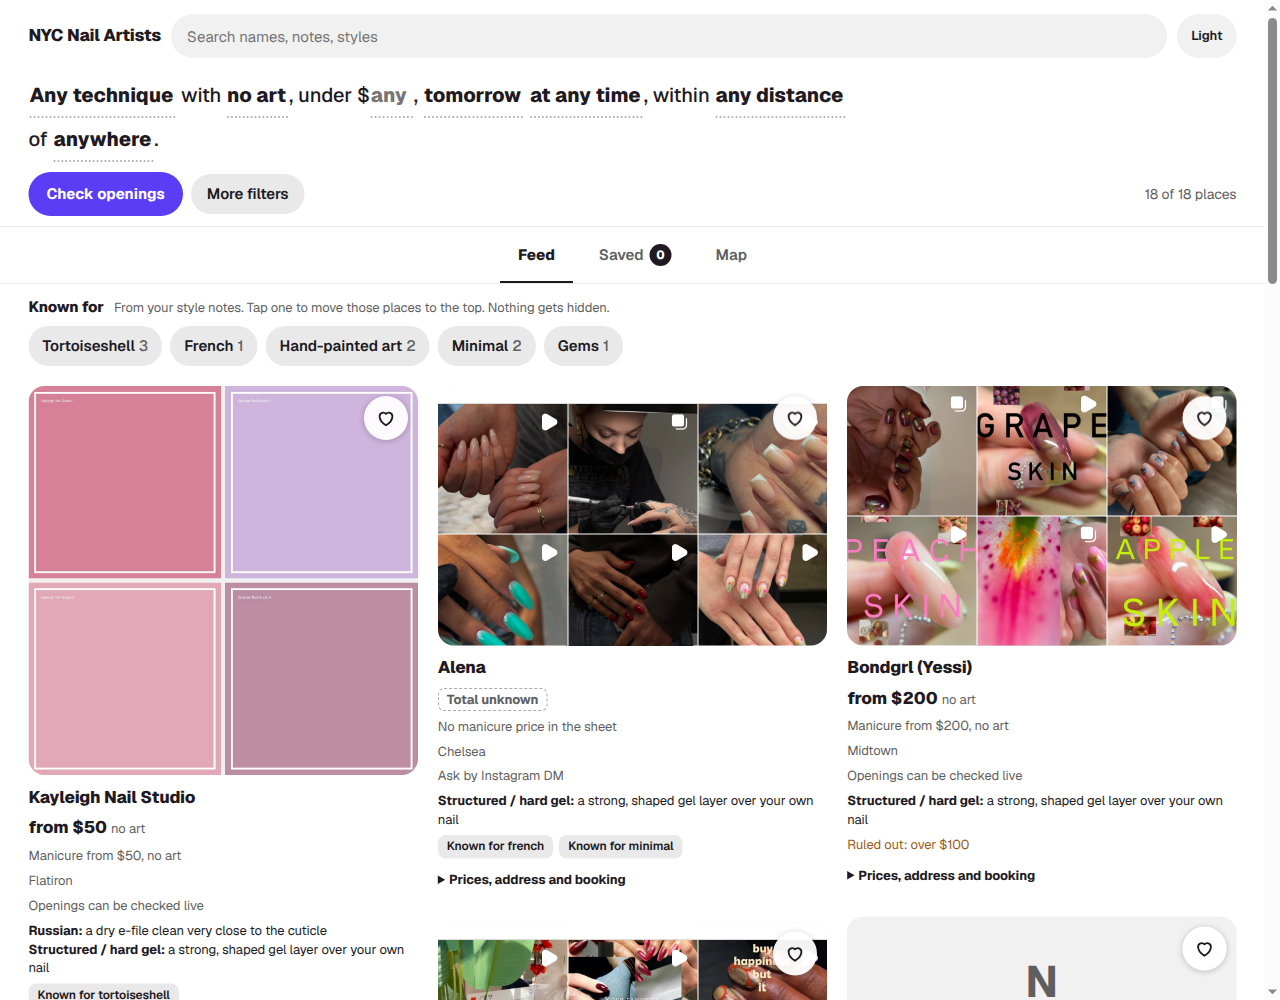
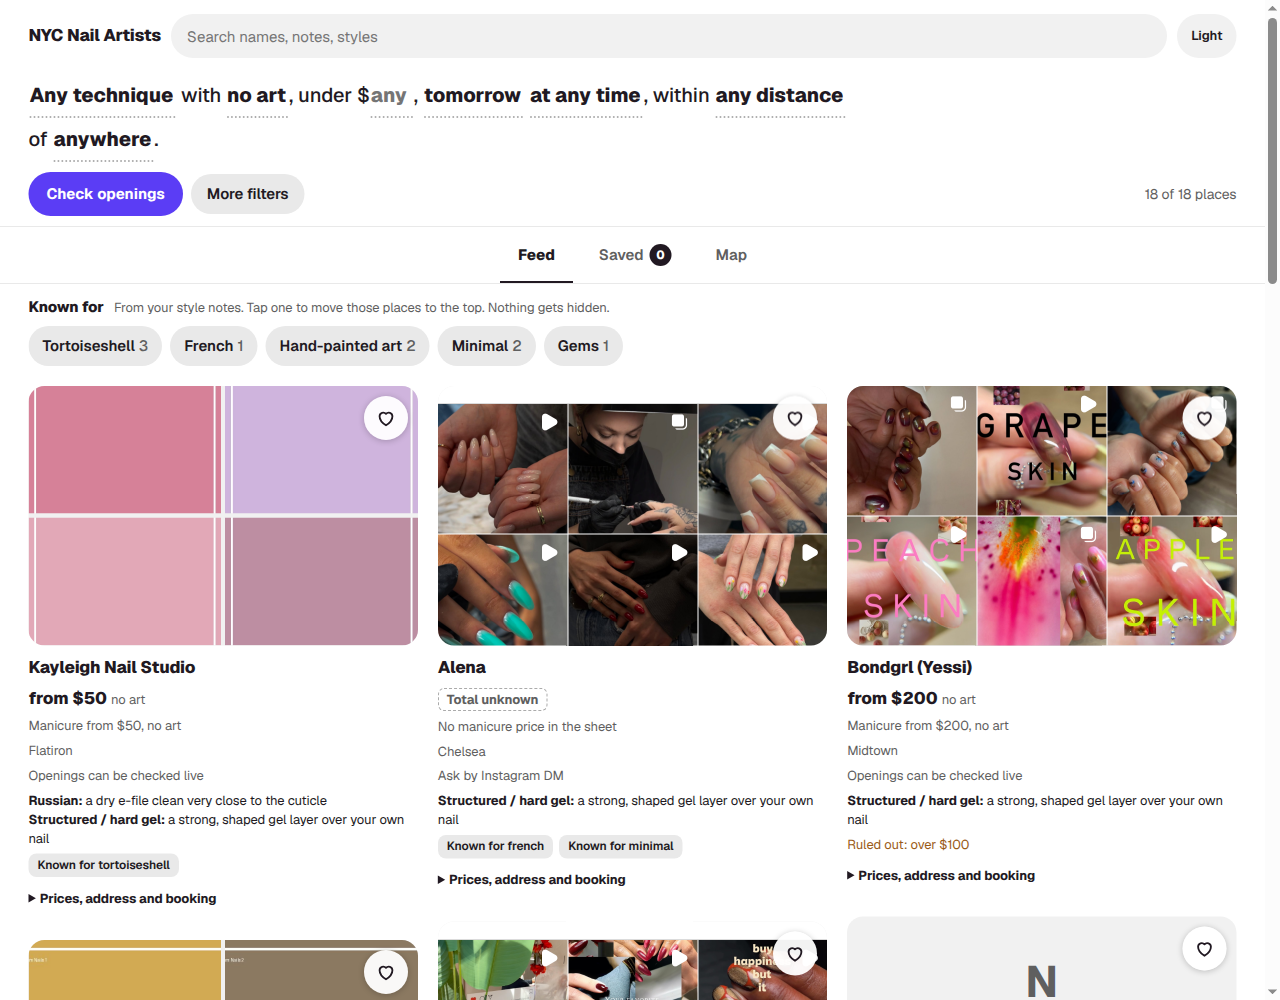
fix: align saved photo grids with embeds

Changed region(s): [[0.0, 0.62, 0.3438, 1.0], [0.0, 0.496, 0.3438, 0.589], [0.0312, 0.372, 0.0625, 0.403]]

diff --git a/index.html b/index.html
@@ -57,12 +57,13 @@ details.more[open]{flex-basis:100%}
 .card.flash .media{outline:3px solid var(--acc);outline-offset:3px}
 .media{position:relative;border-radius:16px;overflow:hidden;background:var(--surface);container-type:inline-size}
 .crop{height:66.7cqw;overflow:hidden}.crop iframe{display:block;width:100%;height:calc(190px + 66.7cqw);margin-top:-147px;border:0}
-.photos.saved{display:grid;gap:4px;overflow:hidden}
-.photos.saved[data-count="1"]{grid-template-columns:1fr;aspect-ratio:1}
-.photos.saved[data-count="2"]{grid-template-columns:repeat(2,minmax(0,1fr));aspect-ratio:2}
-.photos.saved[data-count="3"]{grid-template-columns:repeat(3,minmax(0,1fr));aspect-ratio:3}
-.photos.saved[data-count="4"]{grid-template-columns:repeat(2,minmax(0,1fr));aspect-ratio:1}
-.photos.saved a{display:block;min-width:0;overflow:hidden;aspect-ratio:1}
+.photos.saved{display:grid;gap:4px;overflow:hidden;aspect-ratio:3/2}
+.photos.saved[data-count="1"]{grid-template-columns:1fr}
+.photos.saved[data-count="2"]{grid-template-columns:repeat(2,minmax(0,1fr))}
+.photos.saved[data-count="3"]{grid-template-columns:2fr 1fr;grid-template-rows:repeat(2,minmax(0,1fr))}
+.photos.saved[data-count="3"] a:first-child{grid-row:1 / span 2}
+.photos.saved[data-count="4"]{grid-template-columns:repeat(2,minmax(0,1fr));grid-template-rows:repeat(2,minmax(0,1fr))}
+.photos.saved a{display:block;min-width:0;min-height:0;overflow:hidden}
 .photos.saved img{display:block;width:100%;height:100%;object-fit:cover}
 .posts{display:flex;gap:6px;overflow-x:auto;scroll-snap-type:x mandatory;padding:6px}.posts iframe{flex:0 0 260px;width:260px;height:470px;border:0;scroll-snap-align:start}
 .nophoto{height:150px;display:grid;place-items:center;align-content:center;gap:4px;color:var(--mute)}.nophoto b{font-size:44px;line-height:1}.nophoto small{font-size:12px}
